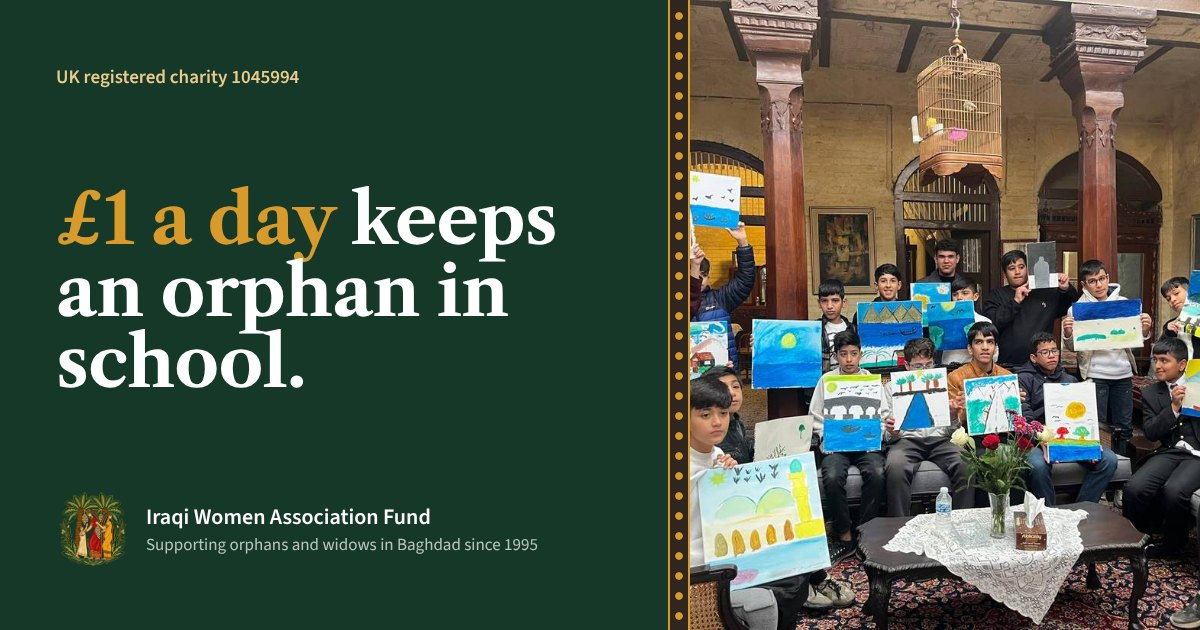
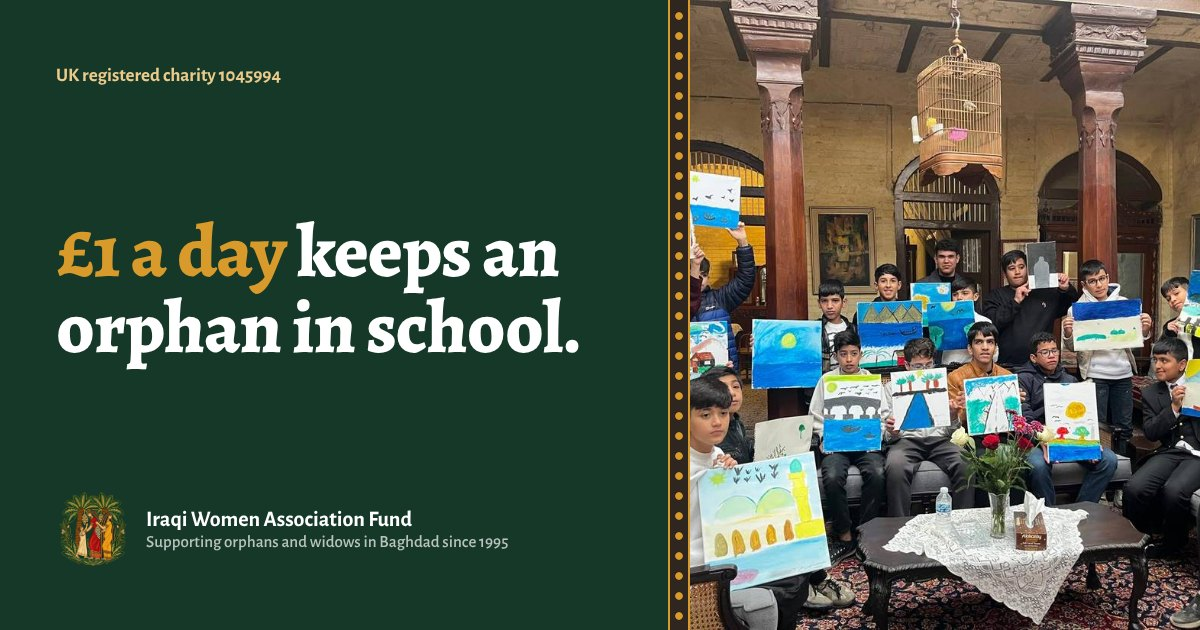
Use Amira's words for the emblem film and switch to Alegreya
- Film is now one sentence over two shots: "A mother tending to her
  child, / in the palm-rich lands of Mesopotamia." then the full painting.
- Alegreya and Alegreya Sans replace Libre Caslon and Source Sans: a
  calligraphic face that matches the hand-inked emblem.
- Preview card re-rendered in the new type.

Claude-Session: https://claude.ai/code/session_01R12kbdAG67N9NPFfGJa5oQ

Changed region(s): [[0.0308, 0.3016, 0.4933, 0.6333], [0.1233, 0.8143, 0.4625, 0.8746], [0.0308, 0.0905, 0.2467, 0.1508]]

diff --git a/index.html b/index.html
@@ -26,7 +26,7 @@
 </script>
 <link rel="preconnect" href="https://fonts.googleapis.com">
 <link rel="preconnect" href="https://fonts.gstatic.com" crossorigin>
-<link href="https://fonts.googleapis.com/css2?family=Libre+Caslon+Text:ital,wght@0,400;0,700;1,400&family=Source+Sans+3:wght@400;600;700&family=Noto+Sans+Cuneiform&display=swap" rel="stylesheet">
+<link href="https://fonts.googleapis.com/css2?family=Alegreya:ital,wght@0,500;0,700;0,800;1,500&family=Alegreya+Sans:wght@400;500;700&family=Noto+Sans+Cuneiform&display=swap" rel="stylesheet">
 <style>
 :root{
   /* IWAF brand palette: palm green, leaf, date brown, pomegranate, saffron, parchment, ink */
@@ -37,11 +37,11 @@
 }
 *{box-sizing:border-box;margin:0;padding:0}
 html{scroll-behavior:smooth}
-body{background:var(--paper);color:var(--ink);font-family:"Source Sans 3",system-ui,sans-serif;font-size:18px;line-height:1.6;-webkit-font-smoothing:antialiased}
+body{background:var(--paper);color:var(--ink);font-family:"Alegreya Sans",system-ui,sans-serif;font-size:19px;line-height:1.55;-webkit-font-smoothing:antialiased}
 img{display:block;max-width:100%}
 a{color:inherit}
 .wrap{max-width:var(--max);margin:0 auto;padding:0 24px}
-h1,h2,h3{font-family:"Libre Caslon Text",Georgia,serif;font-weight:700;line-height:1.12;letter-spacing:-.005em}
+h1,h2,h3{font-family:Alegreya,Georgia,serif;font-weight:800;line-height:1.08;letter-spacing:0}
 h2{font-size:clamp(32px,4.4vw,52px)}
 h3{font-size:22px}
 .eyebrow{font-size:16px;font-weight:600;color:var(--clay)}
@@ -60,8 +60,8 @@ nav.top{position:sticky;top:0;z-index:50;background:rgba(22,56,41,.96);backdrop-
 nav.top .wrap{display:flex;align-items:center;justify-content:space-between;height:68px;gap:20px}
 .brand{display:flex;align-items:center;gap:12px;text-decoration:none}
 .brand-mark{width:44px;height:auto;flex:none}
-.brand-name{font-family:"Libre Caslon Text",Georgia,serif;font-weight:700;font-size:21px;letter-spacing:.04em}
-.brand-sub{display:block;font-size:11px;letter-spacing:.08em;opacity:.7;font-family:"Source Sans 3",sans-serif;font-weight:500;text-transform:uppercase}
+.brand-name{font-family:Alegreya,Georgia,serif;font-weight:700;font-size:21px;letter-spacing:.04em}
+.brand-sub{display:block;font-size:11px;letter-spacing:.08em;opacity:.7;font-family:"Alegreya Sans",sans-serif;font-weight:500;text-transform:uppercase}
 .navlinks{display:flex;gap:26px;align-items:center;font-size:15px}
 .navlinks a{text-decoration:none;opacity:.85}
 .navlinks a:hover{opacity:1}
@@ -86,7 +86,7 @@ nav.top .wrap{display:flex;align-items:center;justify-content:space-between;heig
 /* stats */
 .stats{background:var(--paper-2);padding:56px 0}
 .stats .grid{display:grid;grid-template-columns:repeat(4,1fr);gap:24px}
-.stat b{display:block;font-family:"Libre Caslon Text",Georgia,serif;font-size:clamp(38px,4.5vw,56px);color:var(--lapis);line-height:1}
+.stat b{display:block;font-family:Alegreya,Georgia,serif;font-size:clamp(38px,4.5vw,56px);color:var(--lapis);line-height:1}
 .stat span{display:block;margin-top:10px;color:var(--muted);font-size:15px;max-width:230px}
 @media(max-width:760px){.stats .grid{grid-template-columns:1fr 1fr;gap:32px 20px}}
 
@@ -94,7 +94,7 @@ nav.top .wrap{display:flex;align-items:center;justify-content:space-between;heig
 .how{display:grid;grid-template-columns:.9fr 1.1fr;gap:64px;align-items:start}
 .how-list{display:grid;gap:28px;margin-top:8px}
 .how-item{display:grid;grid-template-columns:44px 1fr;gap:18px}
-.how-item .n{width:44px;height:44px;border-radius:50%;background:var(--lapis);color:#fff;display:grid;place-items:center;font-family:"Libre Caslon Text",Georgia,serif;font-weight:600}
+.how-item .n{width:44px;height:44px;border-radius:50%;background:var(--lapis);color:#fff;display:grid;place-items:center;font-family:Alegreya,Georgia,serif;font-weight:700}
 .how-item p{color:var(--muted);margin-top:4px}
 .pledge{margin-top:30px;padding:22px 24px;border-left:4px solid var(--gold);background:#fff;border-radius:0 var(--radius) var(--radius) 0;font-size:16px;color:var(--muted)}
 @media(max-width:900px){.how{grid-template-columns:1fr;gap:36px}}
@@ -128,8 +128,8 @@ nav.top .wrap{display:flex;align-items:center;justify-content:space-between;heig
 .tier:hover{background:rgba(255,255,255,.1)}
 .tier:focus-visible{outline:2px solid var(--gold);outline-offset:2px}
 .tier[aria-pressed="true"]{background:var(--gold);color:var(--lapis-deep);border-color:var(--gold)}
-.tier .amt{font-family:"Libre Caslon Text",Georgia,serif;font-size:30px;font-weight:600;line-height:1}
-.tier .amt small{font-size:15px;font-family:"Source Sans 3";font-weight:600;opacity:.75}
+.tier .amt{font-family:Alegreya,Georgia,serif;font-size:30px;font-weight:700;line-height:1}
+.tier .amt small{font-size:15px;font-family:"Alegreya Sans";font-weight:600;opacity:.75}
 .tier .what{font-size:14.5px;margin-top:8px;opacity:.88;line-height:1.4}
 .bank{scroll-margin-top:84px;background:var(--paper);color:var(--ink);border-radius:18px;padding:28px;position:sticky;top:90px}
 .bank h3{font-size:24px}
@@ -138,7 +138,7 @@ nav.top .wrap{display:flex;align-items:center;justify-content:space-between;heig
 .row{display:flex;justify-content:space-between;align-items:center;gap:12px;padding:12px 0;border-bottom:1px solid var(--line)}
 .row:last-of-type{border-bottom:0}
 .row span{font-size:15px;color:var(--muted)}
-.row strong{font-family:"Libre Caslon Text",Georgia,serif;font-size:19px;font-weight:600}
+.row strong{font-family:Alegreya,Georgia,serif;font-size:19px;font-weight:700}
 .copy{all:unset;cursor:pointer;font-size:12px;font-weight:600;color:var(--lapis);border:1px solid #bccdb8;border-radius:999px;padding:4px 10px;margin-left:10px}
 .copy:hover{background:var(--tint)}
 .bank .note{font-size:14px;color:var(--muted);margin-top:16px}
@@ -160,7 +160,7 @@ nav.top .wrap{display:flex;align-items:center;justify-content:space-between;heig
 .c-b{grid-column:span 5}.c-b img{aspect-ratio:4/3}
 .c-c{grid-column:span 4}.c-c img{aspect-ratio:1/1}
 .c-quote{grid-column:span 4;background:var(--clay);color:#fff;border:0;padding:30px;justify-content:center}
-.c-quote q{font-family:"Libre Caslon Text",Georgia,serif;font-size:24px;line-height:1.25;font-style:italic;quotes:"\201C" "\201D"}
+.c-quote q{font-family:Alegreya,Georgia,serif;font-size:24px;line-height:1.25;font-style:italic;quotes:"\201C" "\201D"}
 .c-quote .who{margin-top:16px;font-size:14px;opacity:.85}
 .c-wide{grid-column:span 12;display:grid;grid-template-columns:1fr 1fr;gap:0}
 .c-wide img{height:100%;aspect-ratio:auto}
@@ -177,8 +177,8 @@ nav.top .wrap{display:flex;align-items:center;justify-content:space-between;heig
 .art-photo img{border-radius:var(--radius);width:100%;aspect-ratio:4/3;object-fit:cover}
 .art-photo .badge{position:absolute;right:-14px;bottom:-22px;background:var(--lapis);color:#fff;border-radius:12px;padding:14px 18px;font-size:14px;max-width:240px;box-shadow:0 14px 40px rgba(22,56,41,.3)}
 .art p{color:var(--muted);margin-top:16px}
-.art blockquote{margin-top:26px;font-family:"Libre Caslon Text",Georgia,serif;font-size:23px;line-height:1.3;font-style:italic;color:var(--lapis-deep);border-left:4px solid var(--gold);padding-left:20px}
-.art blockquote cite{display:block;font-family:"Source Sans 3";font-style:normal;font-size:14px;color:var(--muted);margin-top:10px}
+.art blockquote{margin-top:26px;font-family:Alegreya,Georgia,serif;font-size:23px;line-height:1.3;font-style:italic;color:var(--lapis-deep);border-left:4px solid var(--gold);padding-left:20px}
+.art blockquote cite{display:block;font-family:"Alegreya Sans";font-style:normal;font-size:14px;color:var(--muted);margin-top:10px}
 .museum{display:grid;grid-template-columns:1fr 1fr;gap:48px;align-items:center;margin-top:72px}
 .museum blockquote{margin-top:0;font-size:clamp(22px,2.4vw,28px)}
 .museum img{width:100%;border-radius:var(--radius);aspect-ratio:3/2;object-fit:cover}
@@ -189,7 +189,7 @@ nav.top .wrap{display:flex;align-items:center;justify-content:space-between;heig
 .tee{margin-top:56px;display:grid;grid-template-columns:auto 1fr auto;gap:28px;align-items:center;background:var(--lapis-deep);color:#fff;border-radius:18px;padding:28px 32px}
 .tee .glyph{font-family:"Noto Sans Cuneiform",serif;font-size:56px;color:var(--gold);line-height:1}
 .tee p{color:rgba(255,255,255,.78);font-size:15.5px;margin-top:4px}
-.tee .price{font-family:"Libre Caslon Text",Georgia,serif;font-size:34px;font-weight:600;color:var(--gold-soft)}
+.tee .price{font-family:Alegreya,Georgia,serif;font-size:34px;font-weight:700;color:var(--gold-soft)}
 @media(max-width:900px){.art-grid{grid-template-columns:1fr;gap:48px}.strip{grid-template-columns:repeat(2,1fr)}.strip figure:last-child{display:none}.tee{grid-template-columns:1fr;gap:12px}.art-photo .badge{right:12px}.museum{grid-template-columns:1fr;gap:24px;margin-top:56px}}
 
 /* iftar */
@@ -198,7 +198,7 @@ nav.top .wrap{display:flex;align-items:center;justify-content:space-between;heig
 .iftar .img img{width:100%;height:100%;object-fit:cover;opacity:.55}
 .iftar .over{position:absolute;inset:0;display:flex;align-items:flex-end;background:linear-gradient(90deg,rgba(0,0,0,.7),rgba(0,0,0,.15) 70%)}
 .iftar .over .wrap{padding-bottom:64px;width:100%}
-.iftar .big{font-family:"Libre Caslon Text",Georgia,serif;font-size:clamp(70px,12vw,150px);line-height:.9;color:var(--gold)}
+.iftar .big{font-family:Alegreya,Georgia,serif;font-size:clamp(70px,12vw,150px);line-height:.9;color:var(--gold)}
 .iftar h2{max-width:760px;margin-top:10px}
 .iftar p{max-width:620px;color:rgba(255,255,255,.85);margin-top:16px;font-size:18px}
 
@@ -208,7 +208,7 @@ nav.top .wrap{display:flex;align-items:center;justify-content:space-between;heig
 .tl-item{display:grid;grid-template-columns:80px 30px 1fr 150px;column-gap:14px;row-gap:12px;padding:18px 0;align-items:start}
 .tl-item img{width:150px;aspect-ratio:4/3;object-fit:cover;border-radius:10px}
 @media(max-width:700px){.tl::before{left:83px}.tl-item{grid-template-columns:56px 24px 1fr}.tl-item .yr{font-size:19px}.tl-item img{grid-column:3;width:100%;max-width:180px}}
-.tl-item .yr{font-family:"Libre Caslon Text",Georgia,serif;font-size:22px;font-weight:600;color:var(--lapis);text-align:right}
+.tl-item .yr{font-family:Alegreya,Georgia,serif;font-size:22px;font-weight:700;color:var(--lapis);text-align:right}
 .tl-item .dot{width:14px;height:14px;border-radius:50%;background:var(--gold);border:3px solid var(--paper);box-shadow:0 0 0 2px var(--gold);margin:8px auto 0;position:relative;z-index:1}
 .tl-item p{color:var(--muted)}
 .tl-item strong{color:var(--ink)}
@@ -246,11 +246,12 @@ nav.top .wrap{display:flex;align-items:center;justify-content:space-between;heig
 .film{background:var(--lapis-deep);color:#fff;padding:88px 0}
 .film .stage{position:relative;max-width:560px;margin:0 auto;padding:0 24px}
 .film .stage img{width:100%;height:auto;border-radius:6px;box-shadow:0 30px 80px rgba(0,0,0,.45)}
-.film .caps{list-style:none;max-width:620px;margin:36px auto 0;padding:0 24px;display:grid;gap:10px;text-align:center;font-family:"Libre Caslon Text",Georgia,serif;font-size:22px;color:rgba(255,255,255,.88)}
+.film .caps li:not(.fin){font-style:italic}
+.film .caps{list-style:none;max-width:620px;margin:36px auto 0;padding:0 24px;display:grid;gap:10px;text-align:center;font-family:Alegreya,Georgia,serif;font-size:22px;color:rgba(255,255,255,.88)}
 .film .caps .fin b{display:block;color:var(--gold);font-size:30px;font-weight:600}
-.film .caps .fin span{display:block;font-family:"Source Sans 3";font-size:16px;color:rgba(255,255,255,.7);margin-top:6px}
+.film .caps .fin span{display:block;font-family:"Alegreya Sans";font-size:16px;color:rgba(255,255,255,.7);margin-top:6px}
 .film .credit{display:block;text-align:center;margin-top:18px;font-size:16px;font-weight:600;color:var(--gold-soft)}
-.film.on{height:420vh;padding:0}
+.film.on{height:340vh;padding:0}
 .film.on .sticky{position:sticky;top:0;height:100vh;height:100svh;overflow:hidden}
 .film.on .stage{position:absolute;inset:0;max-width:none;margin:0;padding:0;overflow:hidden}
 .film.on .stage img{position:absolute;left:0;top:0;width:1275px;height:1468px;max-width:none;border-radius:0;box-shadow:none;transform-origin:0 0;will-change:transform}
@@ -345,12 +346,11 @@ footer .amargi{font-family:"Noto Sans Cuneiform",serif;color:var(--gold);font-si
 
 <section class="film" id="emblem" aria-label="The IWAF emblem">
   <div class="sticky">
-    <div class="stage"><img src="img/emblem.jpg" alt="The IWAF emblem: a painting of two Iraqi women under date palms, one lifting a child towards a cluster of dates, the other expecting a child, with a bull beside them and a border of spirals" loading="lazy" width="1275" height="1468"></div>
+    <div class="stage"><img src="img/emblem.jpg" alt="The IWAF emblem: a painting of a mother tending to her child beside a second woman, under the date palms of Mesopotamia, with a border of spirals" loading="lazy" width="1275" height="1468"></div>
     <span class="credit">The IWAF emblem</span>
     <ol class="caps">
-      <li>A mother lifts her child towards the dates.</li>
-      <li>Beside her walks a woman expecting a child.</li>
-      <li>Above them, the date palms of Iraq.</li>
+      <li>A mother tending to her child,</li>
+      <li>in the palm-rich lands of Mesopotamia.</li>
       <li class="fin"><b>Iraqi women and their children.</b><span>The people we have stood beside since 1995.</span></li>
     </ol>
     <span class="hint">Scroll</span>
@@ -667,8 +667,8 @@ footer .amargi{font-family:"Noto Sans Cuneiform",serif;color:var(--gold);font-si
     var fimg=film.querySelector('.stage img'), stage=film.querySelector('.stage'), caps=[].slice.call(film.querySelectorAll('.caps li')), hint=film.querySelector('.hint');
     fimg.loading='eager';
     var W=1275,H=1468;
-    var keys=[{b:[170,290,800,1200],f:1},{b:[590,240,1160,1360],f:1},{b:[0,0,1275,640],f:1,tall:.6},{b:[0,0,1275,1468],f:0}];
-    var at=[.06,.34,.6,.9];
+    var keys=[{b:[170,290,800,1200],f:1},{b:[0,0,1275,640],f:1,tall:.6},{b:[0,0,1275,1468],f:0}];
+    var at=[.08,.46,.88];
     // detail shots: keep the whole subject in view, but always fill the screen;
     // final shot: the full painting in the upper part, leaving room for the closing words
     function cam(k,w,h){var b=k.b,bw=b[2]-b[0],bh=b[3]-b[1];
